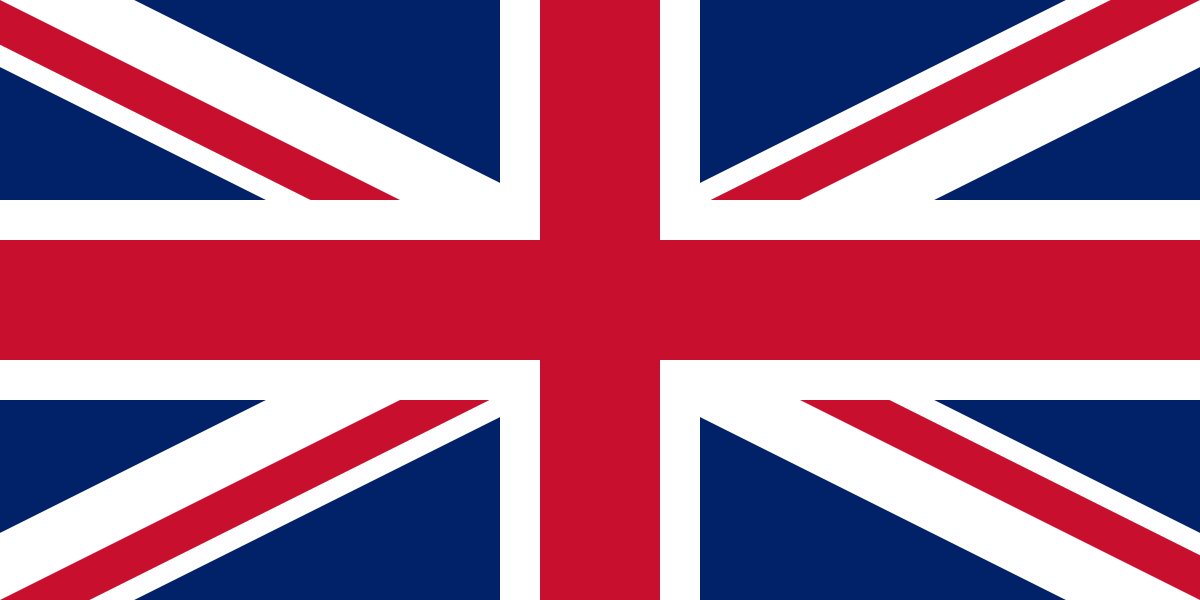
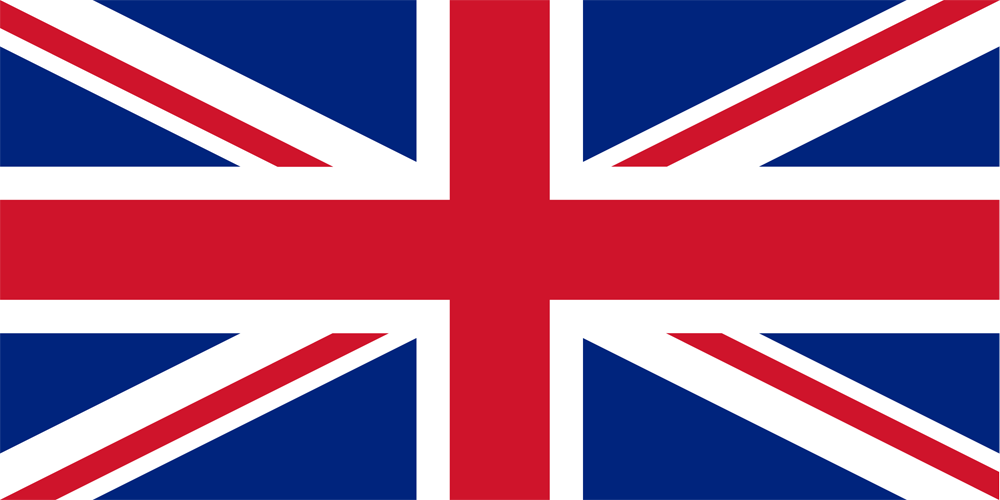
Content updates + flag changes

diff --git a/Fi/About.html b/Fi/About.html
@@ -37,8 +37,9 @@
             <p>yeet</p>
         </div>
         <div class="main">
-            <p>Hei! Minun nimeni on Veeti Hietanen</p>
-            <p>ja olen tällä hetkellä opiskelemassa datanomiksi</p>
+            <p>Hei! Minun nimeni on Veeti Hietanen ja olen 16 vuotias. Olen tällä hetkellä opiskelemassa Esedussa datanomiksi. Vapaa-ajallani pelaan videopelejä, striimaan, teen
+            videoita ja menen ulos kavereiden kanssa
+            </p>
         </div>
     </div>
 

diff --git a/En/About.html b/En/About.html
@@ -37,8 +37,9 @@
             <p>yeet</p>
         </div>
         <div class="main">
-            <p>Hello! My name is Veeti Hietanen</p>
-            <p>and I am studying to become a coder.</p>
+            <p>Hello! My name is Veeti Hietanen and I am 16 years old. Im studying at Esedu to become a coder. On my free time I play videogames, Stream, make videos and go outside
+            with my friends. 
+            </p>
         </div>
     </div>
 

diff --git a/style.css b/style.css
@@ -136,4 +136,9 @@ body {
     top: 30px;
     right: 30px;
     width: 50px;
+    height: 30px;
+}
+
+body p {
+    font-size: 20px;
 }
